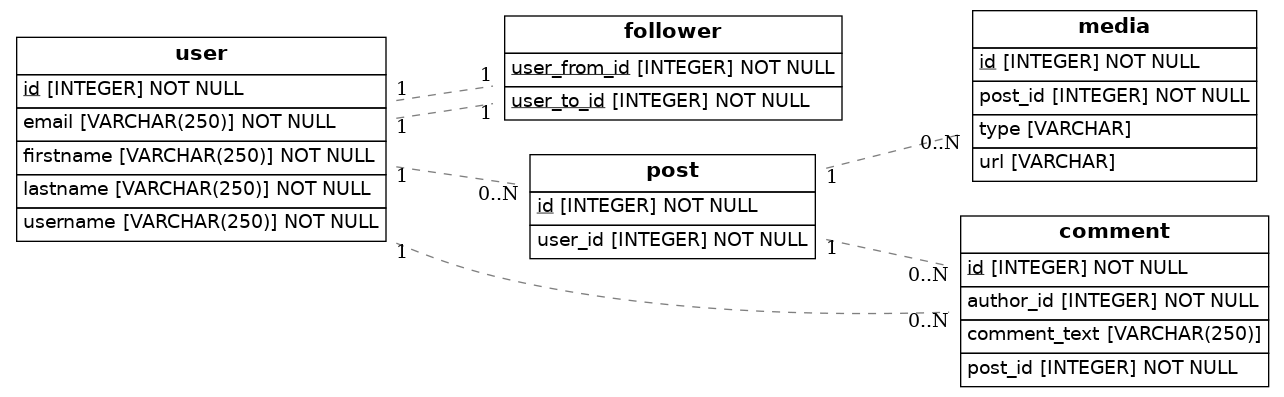
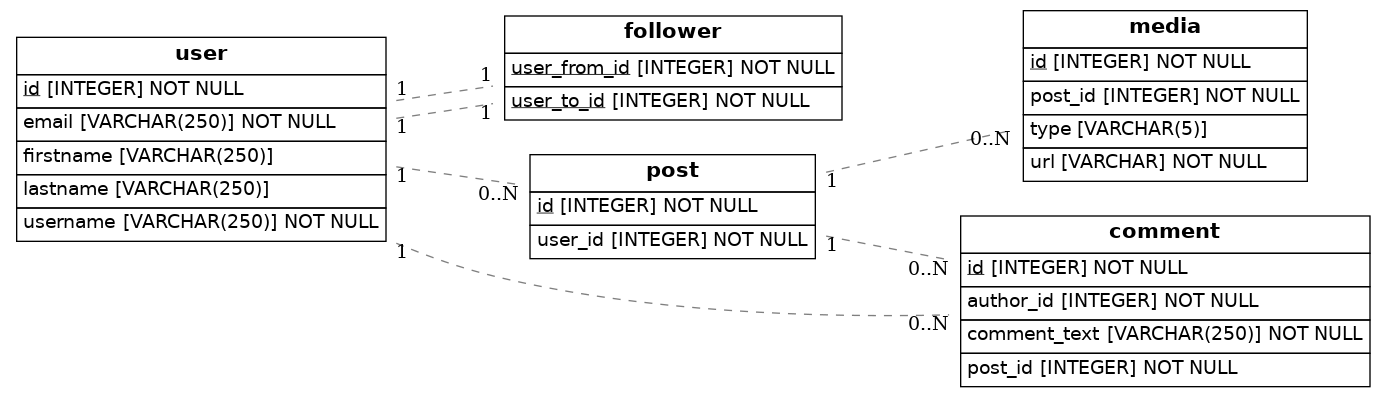
corrigiendo relaciones

diff --git a/src/models.py b/src/models.py
@@ -13,7 +13,8 @@ class Follower(Base):
     __tablename__ = "follower"
     user_from_id= Column(Integer, ForeignKey('user.id'), nullable = False, primary_key = True)
     user_to_id = Column(Integer,ForeignKey('user.id'), nullable = False, primary_key = True)
-    
+    user_from = relationship("User", foreign_keys=[user_from_id], back_populates="following")
+    user_to = relationship("User", foreign_keys=[user_to_id], back_populates="followers")
     
 
 
@@ -22,20 +23,14 @@ class User(Base):
     # Here we define columns for the table person
     # Notice that each column is also a normal Python instance attribute.
     id = Column(Integer, primary_key=True)
-    username = Column(String(250), nullable=False)
-    firstname = Column(String(250), nullable=False)
-    lastname = Column(String(250), nullable=False)
+    username = Column(String(250), unique=True, nullable=False)
+    firstname = Column(String(250))
+    lastname = Column(String(250))
     email = Column(String(250),unique=True, nullable = False)
-
-    followed = relationship(
-        'User',
-        secondary= 'Follower',
-        primaryjoin = (Follower.user_from_id == id),
-        secondaryjoin = (Follower.user_to_id == id),
-        backref="following",
-        lazy='dynamic'
-    )
-
+    posts = relationship("Post", back_populates="user")
+    comments = relationship("Comment", back_populates="author")
+    followers = relationship("Follower", foreign_keys="Follower.user_to_id", back_populates="user_to")
+    following = relationship("Follower", foreign_keys="Follower.user_from_id", back_populates="user_from")
 
 
 
@@ -49,24 +44,23 @@ class Post(Base):
 class Media(Base):
     __tablename__ = "media"
     id = Column(Integer, primary_key = True)
-    type= Column(Enum)
-    url = Column(String)
+    type= Column(Enum("image","video","audio"))
+    url = Column(String,nullable=False)
     post_id = Column(Integer, ForeignKey('post.id'), nullable = False)
-    media = relationship(Post)
+    post = relationship("Post", back_populates="media")
 
 class Comment(Base):
     __tablename__ = 'comment'
     # Here we define columns for the table address.
     # Notice that each column is also a normal Python instance attribute.
     id = Column(Integer, primary_key=True)
-    comment_text = Column(String(250))
+    comment_text = Column(String(250), nullable=False)
     author_id = Column(Integer , ForeignKey('user.id'), nullable = False)
     post_id = Column(Integer, ForeignKey('post.id'), nullable = False )
     #person_id = Column(Integer, ForeignKey('person.id'))
     #person = relationship(Person)
-    comment_user = relationship(User)
-    comment_post = relationship(Post)
-
+    author = relationship("User", back_populates="comment")
+    post = relationship("Post", back_populates="comment")
     def to_dict(self):
         return {}
     
